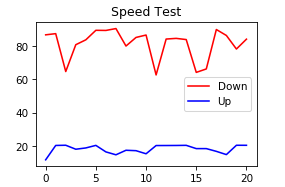
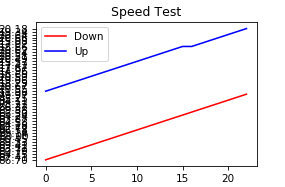
fix menu code

diff --git a/main.py b/main.py
@@ -140,13 +140,13 @@ if "__main__" == __name__:
 			#Primary Menu Options
 			if (menu == 0 and GPIO.input(button1) == False) :
 				speed_test()
-				menu = 1
+				menu = 0
 			if (menu == 0 and GPIO.input(button2) == False) :
                                 graph_it()
-                                menu = 1
+                                menu = 0
 			if (menu == 0 and GPIO.input(button3) == False) :
                                 scan4it()
-                                menu = 1
+                                menu = 0
                         if (menu == 0 and GPIO.input(button4) == False) :
                                 show_menu_2()
                                 menu = 1
@@ -154,10 +154,10 @@ if "__main__" == __name__:
 			#Advanced Meny Options
 			if (menu == 1 and GPIO.input(button3) == False) :
 				power_off()
-				menu = 0
+				menu = 1
 			if (menu == 1 and GPIO.input(button2) == False) :
 				show_otp()
-				menu = 0
+				menu = 1
 			if (menu == 1 and GPIO.input(button4) == False) :
 				show_menu()
 				menu = 0

diff --git a/graph.py b/graph.py
@@ -67,7 +67,7 @@ def main():
       speedtests.append(speedtest)
       speedtest = read_speedtest(file)
   
-  #speedtests = sorted(speedtests, key=lambda speedtest: speedtest['datetime'])
+  speedtests = sorted(speedtests, key=lambda speedtest: speedtest['datetime'])
   
   print 'Speedtest results for period from ' + datetime.strftime(speedtests[0]['datetime'], '%d/%m/%Y %H:%M') + ' to ' + datetime.strftime(speedtests[-1]['datetime'], '%d/%m/%Y %H:%M')
   print
